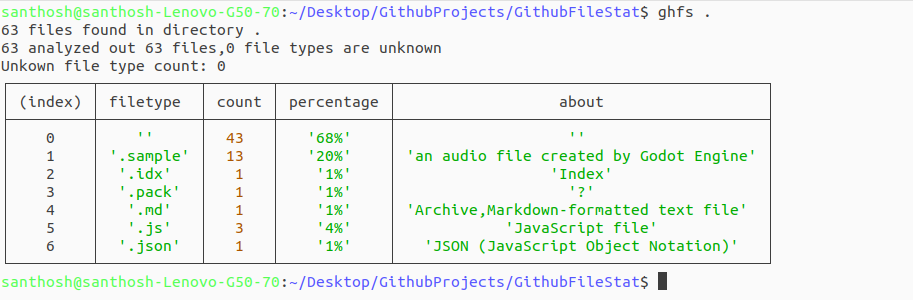
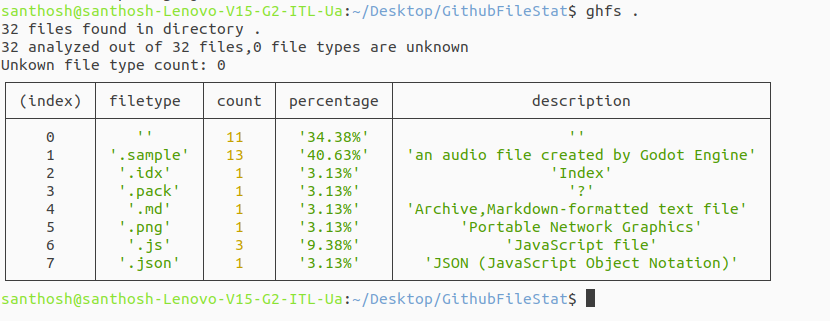
added file find property

diff --git a/bin/index.js b/bin/index.js
@@ -4,13 +4,15 @@ import fs from "fs";
 import path from "path";
 import { typeObjectMaintainer } from "../utils/maintainer/type_objects.js";
 import { file_types } from "../utils/file/file_types.js";
-
 // init values
-function Program(filetype, count, percentage, description) {
+function FileType(filetype, count, percentage, description) {
     this.filetype = filetype;
     this.count = count;
     this.percentage = percentage;
     this.description = description;
+}
+function FileDirectory(dirpath) {
+    this.dirpath = dirpath
 }
 let temp_list = []
 
@@ -25,44 +27,73 @@ async function extractFiles(startPath) {
         var stat = fs.lstatSync(filename);
         if (stat.isDirectory()) {
             extractFiles(filename);
-        } else if (true) {
+        } else if (stat.isFile()) {
             const file_ext_type = path.extname(filename);
             typeObjectMaintainer.update_type_object(file_ext_type)
         };
     };
 };
 
-const a = extractFiles(process.argv[2]);
-let returned_file_types = typeObjectMaintainer.return_type_object()
-let total_files = 0
-let unknown_file_types_count = 0
-let unknown_file_types = []
-let files_finished = 0
-Object.keys(returned_file_types).map((item) => {
-    total_files += returned_file_types[item]
-})
+async function extractFilesByName(startPath, findexp) {
+    if (!fs.existsSync(startPath)) {
+        throw new Error("Directory doesnot exist")
+    }
+
+    var files = fs.readdirSync(startPath);
+    for (var i = 0; i < files.length; i++) {
+        var filename = path.join(startPath, files[i]);
+        var stat = fs.lstatSync(filename);
+        if (stat.isDirectory()) {
+            extractFilesByName(filename, findexp);
+        } else if (stat.isFile()) {
+            if (filename.includes(findexp)) {
+                temp_list.push(new FileDirectory(filename))
+            }
+        };
+    };
+};
 
 
+// argument parsing
+const args = process.argv
+if (args.includes("find")) {
+    extractFilesByName(".", process.argv[3]);
+    console.log(`Found ${temp_list.length} files which includes "${process.argv[3]}"`)
+    console.table(temp_list)
+} else {
+    getGhfs()
+}
 
-for (const key in returned_file_types) {
-    let filter_file_extension = key.replace(".", "").toUpperCase()
-    // check for the upper case key value
-    if (file_types[filter_file_extension]) {
-        temp_list.push(new Program(key, returned_file_types[key], parseFloat(returned_file_types[key] / total_files * 100).toFixed(2) + "%", file_types[filter_file_extension]["descriptions"].toString()))
-        files_finished = files_finished + returned_file_types[key]
-    } else {
-        // automatically checks for lower key value
-        if (file_types[key]) {
-            temp_list.push(new Program(key, returned_file_types[key], parseFloat(returned_file_types[key] / total_files * 100).toFixed(2) + "%", file_types[key]["descriptions"].toString()))
+
+function getGhfs() {
+    extractFiles(process.argv[2]);
+    let returned_file_types = typeObjectMaintainer.return_type_object()
+    let total_files = 0
+    let unknown_file_types_count = 0
+    let unknown_file_types = []
+    let files_finished = 0
+    Object.keys(returned_file_types).map((item) => {
+        total_files += returned_file_types[item]
+    })
+    for (const key in returned_file_types) {
+        let filter_file_extension = key.replace(".", "").toUpperCase()
+        // check for the upper case key value
+        if (file_types[filter_file_extension]) {
+            temp_list.push(new FileType(key, returned_file_types[key], parseFloat(returned_file_types[key] / total_files * 100).toFixed(2) + "%", file_types[filter_file_extension]["descriptions"].toString()))
             files_finished = files_finished + returned_file_types[key]
         } else {
-            unknown_file_types_count = unknown_file_types_count + 1
-            unknown_file_types.push(key)
+            // automatically checks for lower key value
+            if (file_types[key]) {
+                temp_list.push(new FileType(key, returned_file_types[key], parseFloat(returned_file_types[key] / total_files * 100).toFixed(2) + "%", file_types[key]["descriptions"].toString()))
+                files_finished = files_finished + returned_file_types[key]
+            } else {
+                unknown_file_types_count = unknown_file_types_count + 1
+                unknown_file_types.push(key)
+            }
         }
     }
+    console.log(`${total_files} files found in directory ${process.argv[2]}`)
+    console.log(`${files_finished} analyzed out of ${total_files} files,${total_files - files_finished} file types are unknown`)
+    console.log(`Unkown file type count: ${unknown_file_types_count} ${unknown_file_types_count == 0 ? "" : `includes ${[...new Set(unknown_file_types)]}`}`)
+    console.table(temp_list)
 }
-console.log(`${total_files} files found in directory ${process.argv[2]}`)
-console.log(`${files_finished} analyzed out of ${total_files} files,${total_files - files_finished} file types are unknown`)
-console.log(`Unkown file type count: ${unknown_file_types_count} ${unknown_file_types_count == 0 ? "" : `includes ${[...new Set(unknown_file_types)]}`}`)
-console.table(temp_list)
-

diff --git a/README.md b/README.md
@@ -8,8 +8,15 @@ sudo npm install githubfilestat -g
 ```
 
 ### Usage
+
+#### Get file stats
 ```sh
 ghfs <YOUR_PATH>
+```
+
+#### Find any file in current path
+```sh
+ghfs find <FILE_NAME>
 ```
 
 ### Example
